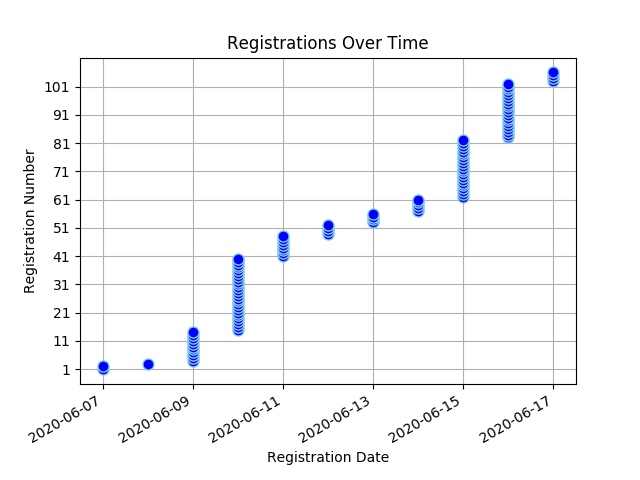
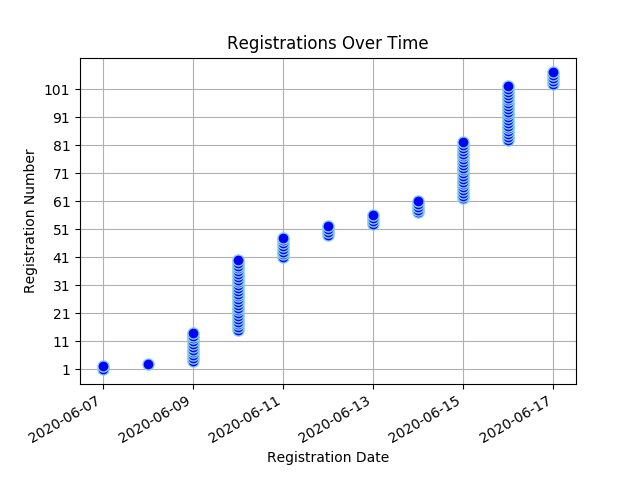
Registree stats backup on Wed Jun 17 12:39:01 SAST 2020

Changed region(s): [[0.0625, 0.1562, 0.9062, 0.6875], [0.2812, 0.6562, 0.3125, 0.7188]]

diff --git a/content/virtual_conf_stats/_index.md b/content/virtual_conf_stats/_index.md
@@ -16,7 +16,7 @@ draft: false
 </head>
 <body>
 <h1 style="color: #000000;">Virtual Convention Registration Stats</h1>
-<ul><li><strong>Number of Registrees</strong>: 106</li>
+<ul><li><strong>Number of Registrees</strong>: 107</li>
 </ul><a href="/docs/virtual_convention_stats.csv">Download registration details here</a>
 <h2>Registrees</h2>
 <table id="registreeTable" class="tablesorter" border="1" padding=1>
@@ -77,6 +77,7 @@ Club
 <tr><td>Lang, James</td><td>The Lions Club of Gordon's Bay</td></tr>
 <tr><td>Lang, Paula</td><td>Gordons Bay</td></tr>
 <tr><td>Love, Dee</td><td>Cowies Hill</td></tr>
+<tr><td>MACROBERT, PAM</td><td>LIONS CLUB OF GROOTE SCHUUR</td></tr>
 <tr><td>Marchant, Richard</td><td>The Wilds - Johannesburg</td></tr>
 <tr><td>Mare, Beaulieu</td><td>Benoni Lakes</td></tr>
 <tr><td>Mare, Nicholas</td><td>Benoni Lakes Lions</td></tr>
